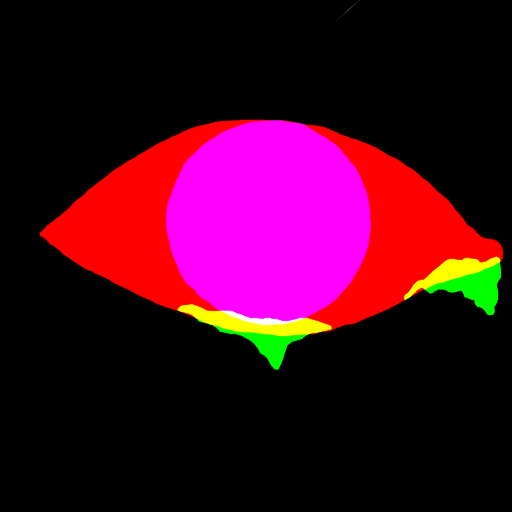
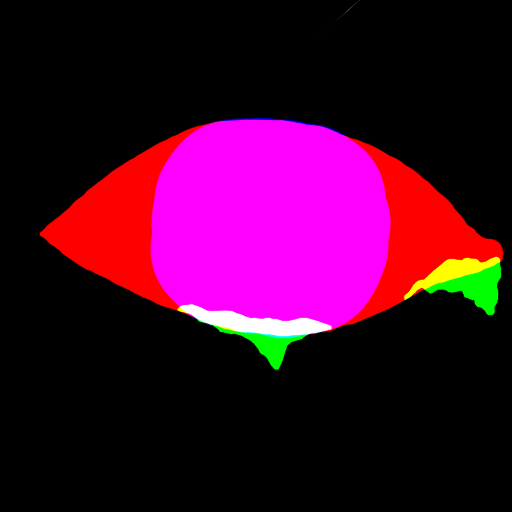
Eye iris WIP

Changed region(s): [[0.2812, 0.2188, 0.7812, 0.6875]]

diff --git a/sketch-voronoi-manhattan.js b/sketch-voronoi-manhattan.js
@@ -12,7 +12,7 @@ const linearize = require('svg-linearize');
 const { polylinesToSVG } = require('canvas-sketch-util/penplot');
 import { generatePoints, segmentsEqual, pointsEqual, addSegmentsFromPolys,
    getBMPColor, pointInBMPMask, findMedianDir, directionFromTo, intersectEdges } from "./utils.js";
-// import { voronoiPolysFromPointsAndMask } from "./utils-voronoi.js";
+import { voronoiPolysFromPointsAndMask } from "./utils-voronoi.js";
 import { fillManhNodesPoints, fillManhCellsLines } from "./utils-manh-voronoi.js";
 
 // working L1 voronoi gen is currently in https://github.com/mlknz/manhattan-voronoi (fix_points_nudge branch)
@@ -28,8 +28,9 @@ const svgSize = 256;
 const penThicknessCm = 0.01;
 
 const randomPointsCount = 130;
+const irisVoroGenPointsCount = 45000;
 const margin = 0.5;
-const eye_outer_margin = 1.0;
+const eye_outer_margin = 0.5;
 const innerCellRadiusMargin = 0.125;
 const lines = [];
 const points = [];
@@ -43,10 +44,42 @@ const generateManhattanVoronoi = (width, height) => {
         const manhFilteredPolygonPoints = mi.polygonPoints.filter((item, index) => mi.polygonPoints.indexOf(item) == index);
         mi.polygonPoints = manhFilteredPolygonPoints;
     })
-
     return manhattan;
 };
 
+const generateIrisVoronoi = (width, height, bmpMask) => {
+    const randomPoints = generatePoints(irisVoroGenPointsCount, width, height, margin);
+    const irisMaskFunc = entry => pointInBMPMask(entry, width, height, margin, bmpMask, [0]);
+
+    const irisPolys = voronoiPolysFromPointsAndMask(randomPoints, width, height, margin, irisMaskFunc);
+
+    return irisPolys;
+};
+
+const addLinesCutWithContourAndMask = (linesToCut, contourLines, maskFunc) => {
+    for (let i = 0; i < linesToCut.length; ++i)
+    {
+        let intersection = false;
+        for (let j = 0; j < contourLines.length; ++j)
+        {
+            intersection = intersectEdges(linesToCut[i], contourLines[j]);
+            if (intersection) break;
+        }
+
+        const p0InMask = maskFunc(linesToCut[i][0]);
+        const p1InMask = maskFunc(linesToCut[i][1]);
+
+        if (!p0InMask && !p1InMask && !intersection)
+        {
+            lines.push(linesToCut[i]);
+        }
+        else if (intersection)
+        {
+            if (!p0InMask && p1InMask) lines.push([linesToCut[i][0], intersection]);
+            else if (!p1InMask && p0InMask) lines.push([linesToCut[i][1], intersection]);
+        }
+    }
+};
 
 let eye_contour_svg;
 loadsvg('assets/eye_contour.svg', async(err, svg) => {
@@ -65,12 +98,12 @@ const sketch = async ({ width, height, units, render }) => {
     tmpContext.clearRect(0, 0, img_size, img_size);
     tmpContext.drawImage(img_eye_base, 0, 0, img_size, img_size);
     const eye_base_bmp = tmpContext.getImageData(0, 0, img_size, img_size);
-    console.log(eye_base_bmp);
 
-    const manh = generateManhattanVoronoi(width, height);
-    fillManhNodesPoints(manh, points);
-    fillManhCellsLines(manh, innerCellRadiusMargin, lines);
-    const linesEyeCut = [];
+    const img_eye_iris = await load('assets/eye_iris.png');
+    tmpContext.clearRect(0, 0, img_size, img_size);
+    tmpContext.drawImage(img_eye_iris, 0, 0, img_size, img_size);
+    const eye_iris_bmp = tmpContext.getImageData(0, 0, img_size, img_size);
+
     const eye_base_contour = [];
     const mapSegCoords = (seg, offset) => {
         const x = (seg[0] / img_size) * (width - eye_outer_margin*2) + eye_outer_margin + offset[0];
@@ -81,34 +114,29 @@ const sketch = async ({ width, height, units, render }) => {
         for (let i = 0; i < seg.length; ++i)
         {
             const contourLine = [mapSegCoords(seg[i], [0, 0]), mapSegCoords(seg[(i + 1) % seg.length], [0, 0])];
-            linesEyeCut.push(contourLine);
+            lines.push(contourLine);
             eye_base_contour.push(contourLine);
         }
     });
 
-    for (let i = 0; i < lines.length; ++i)
-    {
-        let intersection = false;
-        for (let j = 0; j < eye_base_contour.length; ++j)
-        {
-            intersection = intersectEdges(lines[i], eye_base_contour[j]);
-            if (intersection) break;
-        }
+    const linesManh = [];
+    const manh = generateManhattanVoronoi(width, height);
+    fillManhNodesPoints(manh, points);
+    fillManhCellsLines(manh, innerCellRadiusMargin, linesManh);
+    const manhMaskFunc = point => pointInBMPMask(point, width, height, eye_outer_margin, eye_base_bmp, [0, 1]);
+    addLinesCutWithContourAndMask(linesManh, eye_base_contour, manhMaskFunc);
 
-        const p0InMask = pointInBMPMask(lines[i][0], width, height, eye_outer_margin, eye_base_bmp);
-        const p1InMask = pointInBMPMask(lines[i][1], width, height, eye_outer_margin, eye_base_bmp);
+    const linesIris = [];
+    const irisPolys = generateIrisVoronoi(width, height, eye_iris_bmp);
+    addSegmentsFromPolys(irisPolys.partiallyInside, linesIris, [0, 0], debug);
+    addSegmentsFromPolys(irisPolys.fullyOutside, linesIris, [0, 0], debug);
+    const irisMaskFunc = point => !pointInBMPMask(point, width, height, eye_outer_margin, eye_base_bmp, [2]);
+    addLinesCutWithContourAndMask(linesIris, eye_base_contour, irisMaskFunc);
+    // linesIris.forEach(l => {
+    //     if (irisMaskFunc(l[0]) || irisMaskFunc(l[1])) lines.push(l);
+    // });
 
-        if (!p0InMask && !p1InMask && !intersection)
-        {
-            linesEyeCut.push(lines[i]);
-        }
-        else if (intersection)
-        {
-            if (!p0InMask && p1InMask) linesEyeCut.push([lines[i][0], intersection]);
-            else if (!p1InMask && p0InMask) linesEyeCut.push([lines[i][1], intersection]);
-        }
-    }
-    const pointsEyeCut = points.filter(p => !pointInBMPMask(p, width, height, eye_outer_margin, eye_base_bmp));
+    const pointsEyeCut = points.filter(p => !pointInBMPMask(p, width, height, eye_outer_margin, eye_base_bmp, [0, 1]));
 
 
   // 2. point circles to lines
@@ -126,7 +154,7 @@ return ({ context }) => {
       context.stroke();
     });
 
-    linesEyeCut.forEach(line => {
+    lines.forEach(line => {
       context.beginPath();
       line.forEach(p => context.lineTo(p[0], p[1]));
       context.strokeStyle = 'black';
@@ -149,7 +177,7 @@ return ({ context }) => {
     return [
       context.canvas,
       {
-        data: polylinesToSVG(linesEyeCut, { width, height, units } ),
+        data: polylinesToSVG(lines, { width, height, units } ),
         extension: '.svg'
       }
     ];

diff --git a/utils.js b/utils.js
@@ -49,13 +49,17 @@ export function getBMPColor(bmp, x, y) {
     return [bmp.data[itr], bmp.data[itr + 1],  bmp.data[itr + 2],  bmp.data[itr + 3]];
 };
 
-export function pointInBMPMask(p, width, height, margin, bmp_mask, offset = [0, 0]) {
+export function pointInBMPMask(p, width, height, margin, bmp_mask, colorIndicesToCheck, offset = [0, 0]) {
     const cellX =  Math.floor(((p[0] - offset[0] - margin) / (width - 2*margin)) * bmp_mask.width);
     const cellY = Math.floor(((p[1] - offset[1] - margin) / (height - 2*margin)) * bmp_mask.height);
     if (cellX < 0 || cellY < 0 || cellX > bmp_mask.width || cellY > bmp_mask.height) return false;
 
     const col = getBMPColor(bmp_mask, cellX, cellY);
-    return col[0] > 128 || col[1] > 128;
+    let hasColor = false;
+    colorIndicesToCheck.forEach(colorIndex => {
+        if (col[colorIndex] > 128) hasColor = true;
+    });
+    return hasColor;
 };
 
 // 2d

diff --git a/useful-chunks.js b/useful-chunks.js
@@ -1,15 +1,4 @@
 
-// const lipsUpMaskFunc = entry =>
-// {
-//     return pointInBMPMask(entry, width, height, margin, lips_up_bmp)
-//       || !pointInBMPMask(entry, width, height, margin, lips_down_bmp);
-// };
-
-//const lipsUpPolys = voronoiPolysFromPointsAndMask(pointsRandomLips, width, height, margin, lipsUpMaskFunc);
-
-
-//addSegmentsFromPolys(lipsUpPolys.fullyOutside, lines, lipsOffset, debug);
-//addSegmentsFromPolys(lipsUpPolys.partiallyInside, lines, lipsOffset, debug);
 //console.log("Remove duplicates ", debug.duplicateSegments, "of total ", lines.length + debug.duplicateSegments);
 
 // const loop = setInterval(() => {
